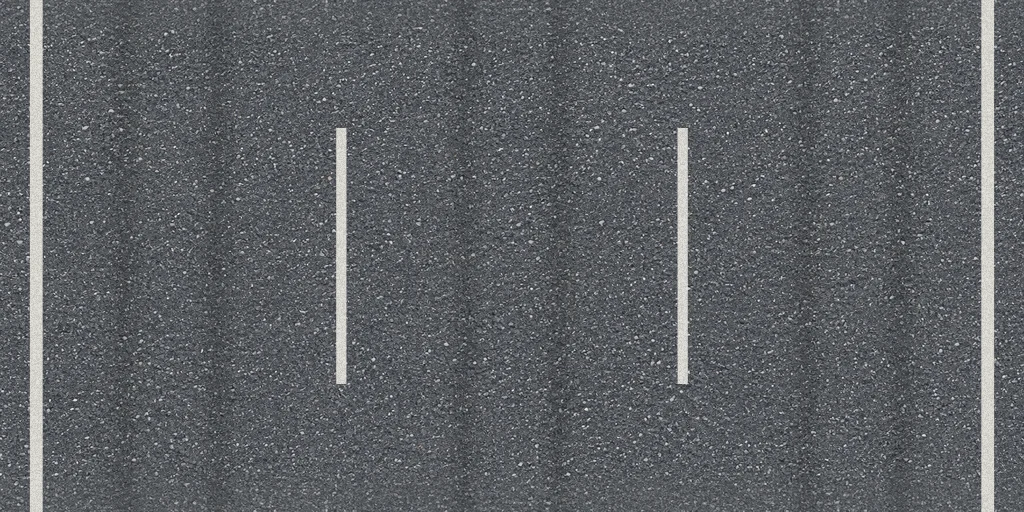
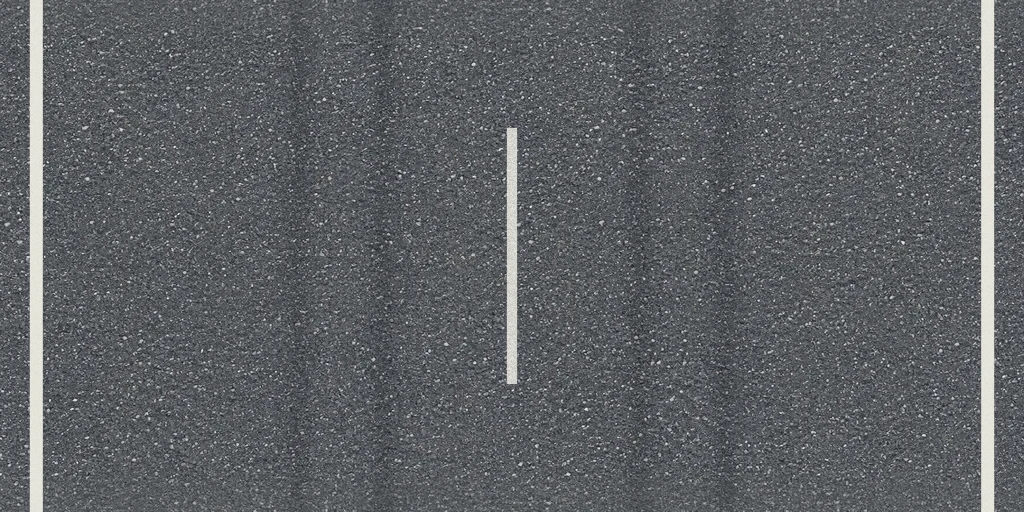
feat: D2a Leitstreifen mittig, Glas-Saeule, blaue flache x2-Wand; Plan: +1-Schilder laufen entgegen (D3)

Changed region(s): [[0.4688, 0.25, 0.5312, 0.75], [0.6562, 0.25, 0.6875, 0.75], [0.3125, 0.25, 0.3438, 0.75]]

diff --git a/src/v3d/szene.ts b/src/v3d/szene.ts
@@ -50,12 +50,27 @@ function platzhalter(scene: THREE.Scene): void {
   gruppe.name = 'platzhalter'
   gruppe.visible = new URLSearchParams(location.search).get('platzhalter') !== '0'
   scene.add(gruppe)
-  box(gruppe, 'vervielfacher', [2 * BUEHNE.MITTE_HALB, BUEHNE.WAND_HOEHE, 0.18], [0, BUEHNE.WAND_HOEHE / 2, -5], '#8e36c0')
-  schild(gruppe, 'vervielfacher-zahl', BUEHNE.WAND_SCHILD_BREITE, 2, 0, 1.2, -4.88, textBild('×2', '#8e36c0'))
+  box(gruppe, 'vervielfacher', [2 * BUEHNE.MITTE_HALB, BUEHNE.WAND_HOEHE, 0.18], [0, BUEHNE.WAND_HOEHE / 2, -5], BUEHNE.WAND_FARBE)
+  schild(gruppe, 'vervielfacher-zahl', BUEHNE.WAND_SCHILD_BREITE, BUEHNE.WAND_SCHILD_HOEHE, 0, BUEHNE.WAND_HOEHE / 2, -4.88, textBild('×2', BUEHNE.WAND_FARBE))
   const plus = textBild('+1', '#168bd2')
   for (let z = 6; z >= -60; z -= 7) schild(gruppe, 'plus-eins', BUEHNE.PLUS_BREITE, BUEHNE.PLUS_HOEHE, BUEHNE.PLUS_X, 1.6, z, plus)
-  box(gruppe, 'saeule', [1.6, 4, 1.6], [BUEHNE.SAEULE_X, 2, -12], '#aaaeb3')
+  const innen = box(gruppe, 'spezialeinheit-platzhalter', [1, 0.6, 1.2], [BUEHNE.SAEULE_X, 0.3, -12], '#244a32')
+  innen.renderOrder = 1
+  const glas = new THREE.Mesh(new THREE.BoxGeometry(1.6, 4, 1.6), new THREE.MeshStandardMaterial({
+    color: '#c8ecf7', transparent: true, opacity: 0.3, depthWrite: false, roughness: 0.1,
+  }))
+  glas.name = 'saeule'; glas.position.set(BUEHNE.SAEULE_X, 2, -12); glas.renderOrder = 2; gruppe.add(glas)
+  const rahmen = new THREE.Group(); rahmen.name = 'saeule-rahmen'; gruppe.add(rahmen)
+  for (const x of [-0.8, 0.8]) for (const z of [-0.8, 0.8])
+    box(rahmen, 'saeule-kante', [0.06, 4, 0.06], [BUEHNE.SAEULE_X + x, 2, -12 + z], '#e5f6fa').renderOrder = 3
+  for (const y of [0, 4]) {
+    for (const z of [-0.8, 0.8])
+      box(rahmen, 'saeule-kante', [1.6, 0.06, 0.06], [BUEHNE.SAEULE_X, y, -12 + z], '#e5f6fa').renderOrder = 3
+    for (const x of [-0.8, 0.8])
+      box(rahmen, 'saeule-kante', [0.06, 0.06, 1.6], [BUEHNE.SAEULE_X + x, y, -12], '#e5f6fa').renderOrder = 3
+  }
   schild(gruppe, 'saeule-zahl', 1.4, 0.7, BUEHNE.SAEULE_X, 3.4, -11.18, textBild('150', '#777c82'))
+  gruppe.children.find(obj => obj.name === 'saeule-zahl')!.renderOrder = 4
   box(gruppe, 'truppe', [6, 0.9, 3], [0, 0.45, 1.5], '#2875bd', 1)
 }
 

diff --git a/tests/v3dBuehne.test.ts b/tests/v3dBuehne.test.ts
@@ -30,7 +30,9 @@ describe('3D-Bühne', () => {
     expect(BUEHNE.PLUS_HOEHE).toBe(1.6)
     expect(BUEHNE.SAEULE_X - 1.6 / 2).toBeGreaterThanOrEqual(BUEHNE.MITTE_HALB)
     expect(BUEHNE.SAEULE_X + 1.6 / 2).toBeLessThanOrEqual(aussen)
-    expect(BUEHNE.WAND_HOEHE).toBe(2.4)
+    expect(BUEHNE.WAND_HOEHE).toBe(1.2)
+    expect(BUEHNE.WAND_FARBE).toBe('#1f6fd6')
+    expect(BUEHNE.WAND_SCHILD_HOEHE).toBe(1)
     expect(BUEHNE.WAND_SCHILD_BREITE).toBeLessThanOrEqual(2 * BUEHNE.MITTE_HALB)
     expect(BUEHNE.KANTE_BREITE).toBe(.3)
     expect(BUEHNE.KANTE_HOEHE).toBe(.25)

diff --git a/src/v3d/balance3d.ts b/src/v3d/balance3d.ts
@@ -55,7 +55,9 @@ export const BUEHNE = {
   PLUS_BREITE: 2.2,
   PLUS_HOEHE: 1.6,
   PLUS_X: -4.7,
-  WAND_HOEHE: 2.4,
+  WAND_HOEHE: 1.2,
+  WAND_FARBE: '#1f6fd6',
+  WAND_SCHILD_HOEHE: 1,
   WAND_SCHILD_BREITE: 4.4,
   SAEULE_X: 4.7,
   KAMERA_SICHTFELD: 22,

diff --git a/scripts/strasse-asphalt.py b/scripts/strasse-asphalt.py
@@ -14,30 +14,52 @@ TARGET = np.array([0x5A, 0x5D, 0x61], dtype=np.float32)
 WHITE = np.array([0xE8, 0xE6, 0xDE], dtype=np.float32)
 
 
-def make_tile(source: Path) -> Image.Image:
+def make_tile(source: Path, replace_markings: bool = False) -> Image.Image:
     image = Image.open(source).convert("RGB").resize((WIDTH, HEIGHT), Image.Resampling.LANCZOS)
     pixels = np.asarray(image, dtype=np.float32).copy()
 
-    # Match the specified base brightness before the markings raise the average.
-    pixels = np.clip(pixels + TARGET - pixels.mean(axis=(0, 1)), 0, 255)
+    if replace_markings:
+        # The original unmarked image was not checked in. Recover the base of the
+        # checked-in tile by removing its old dash and deterministic tyre shading.
+        old_tracks = np.zeros(WIDTH, dtype=np.float32)
+        old_x = np.arange(WIDTH, dtype=np.float32) + 0.5
+        for lane_centre in (-4, 0, 4):
+            for offset in (-0.55, 0.55):
+                centre = (lane_centre + offset + 6) * PIXELS_PER_METRE
+                old_tracks = np.maximum(old_tracks, 0.12 * np.exp(-0.5 * ((old_x - centre) / 9) ** 2))
+        pixels /= (1 - old_tracks)[None, :, None]
+        clean = pixels.copy()
+        for centre_m in (-2, 2):
+            centre = (centre_m + 6) * PIXELS_PER_METRE
+            left, right = int(centre - 9), int(centre + 9)
+            for column in range(left, right + 1):
+                # Nearby untouched asphalt keeps the original grain. Feather the
+                # patch at its sides to avoid a hard vertical join.
+                alpha = min(1.0, (column - left + 1) / 5, (right - column + 1) / 5)
+                pixels[HEIGHT // 4:3 * HEIGHT // 4, column] = (
+                    clean[HEIGHT // 4:3 * HEIGHT // 4, column] * (1 - alpha)
+                    + clean[HEIGHT // 4:3 * HEIGHT // 4, column - 32] * alpha
+                )
+    else:
+        # Match the specified base brightness before the markings raise the average.
+        pixels = np.clip(pixels + TARGET - pixels.mean(axis=(0, 1)), 0, 255)
 
-    # Join only the longitudinal ends. The road edges are clamped, never tiled sideways.
-    original = pixels.copy()
-    for i in range(48):
-        weight = (1 + np.cos(np.pi * i / 48)) / 2
-        common = (original[i] + original[HEIGHT - 1 - i]) / 2
-        pixels[i] = original[i] * (1 - weight) + common * weight
-        pixels[HEIGHT - 1 - i] = original[HEIGHT - 1 - i] * (1 - weight) + common * weight
+        # Join only the longitudinal ends. The road edges are clamped, never tiled sideways.
+        original = pixels.copy()
+        for i in range(48):
+            weight = (1 + np.cos(np.pi * i / 48)) / 2
+            common = (original[i] + original[HEIGHT - 1 - i]) / 2
+            pixels[i] = original[i] * (1 - weight) + common * weight
+            pixels[HEIGHT - 1 - i] = original[HEIGHT - 1 - i] * (1 - weight) + common * weight
 
     x = np.arange(WIDTH, dtype=np.float32) + 0.5
     y = np.arange(HEIGHT, dtype=np.float32) + 0.5
 
-    # Two broad, low-opacity tyre traces in each of the three four-metre lanes.
+    # Two tyre traces in each half of the central fighting lane; side lanes stay clear.
     tracks = np.zeros(WIDTH, dtype=np.float32)
-    for lane_centre in (-4, 0, 4):
-        for offset in (-0.55, 0.55):
-            centre = (lane_centre + offset + 6) * PIXELS_PER_METRE
-            tracks = np.maximum(tracks, 0.12 * np.exp(-0.5 * ((x - centre) / 9) ** 2))
+    for centre_m in (-2.5, -1.5, 1.5, 2.5):
+        centre = (centre_m + 6) * PIXELS_PER_METRE
+        tracks = np.maximum(tracks, 0.12 * np.exp(-0.5 * ((x - centre) / 9) ** 2))
     pixels *= (1 - tracks)[None, :, None]
 
     rng = np.random.default_rng(31729)
@@ -58,20 +80,20 @@ def make_tile(source: Path) -> Image.Image:
     paint_line(-6 + 0.35 + 0.075, 0.15, False)
     paint_line(6 - 0.35 - 0.075, 0.15, False)
     # One 3 m dash plus 3 m gap per six-metre tile.
-    paint_line(-2, 0.12, True)
-    paint_line(2, 0.12, True)
+    paint_line(0, 0.12, True)
     return Image.fromarray(np.rint(np.clip(pixels, 0, 255)).astype(np.uint8))
 
 
 def main() -> None:
     parser = argparse.ArgumentParser(description=__doc__)
     parser.add_argument("source", type=Path, help="image-generated unmarked asphalt")
+    parser.add_argument("--replace-markings", action="store_true", help="use the checked-in marked tile as the base")
     parser.add_argument("--output", type=Path, default=Path("src/v3d/bilder/v3d-strasse.webp"))
     parser.add_argument("--preview", type=Path, default=Path("/private/tmp/run-gun-d1-kacheln/strasse-asphalt-2x2.png"))
     args = parser.parse_args()
     if not features.check("webp"):
         parser.error("PIL has no WebP encoder")
-    tile = make_tile(args.source)
+    tile = make_tile(args.source, args.replace_markings)
     args.output.parent.mkdir(parents=True, exist_ok=True)
     tile.save(args.output, "WEBP", quality=88)
     preview = Image.new("RGB", (WIDTH * 2, HEIGHT * 2))

diff --git a/docs/active-task.md b/docs/active-task.md
@@ -182,6 +182,9 @@ Soldaten (D2b), Bosse (D2c), Bewegung nach vorn, Wellen, Front, Treffer, Umfalle
 
 ## Implementation Summary
 
+- Nacharbeit 4: Asphalt mit einer gestrichelten Leitlinie bei x = 0 und vier Reifenspuren nur im mittleren Kampffeld neu erzeugt; alter Grundbelag und Randlinien bleiben. Die alten Leitlinien bei x = ±2 wurden aus der eingecheckten Kachel entfernt. Kontrollbild: `tmp/strasse-asphalt-2x2.png`.
+- Die rechte Säule hat hellblau-weißes Glas (30 % Deckkraft, Rauheit 0,1), zwölf helle Rahmenkanten und einen dunkelgrünen Innenplatzhalter 1,0 × 0,6 × 1,2 m. Die ×2-Wand ist blau (`#1f6fd6`), 1,2 m hoch; ihr Schild misst 4,4 × 1 m. `tests/v3dBuehne.test.ts` erwartet die neuen Wandwerte.
+- Nacharbeit-4-Prüfung: gezielt 1 Datei/5 Tests, volle Suite 57 Dateien/511 Tests, `npx tsc --noEmit`, `npm run build`, `git diff --check` und Offline-Isolationstest grün. Sechs 3D-Dateien (1.242.906 Byte) sind im Precache; Hauptbündel 1.467.937 Byte (Grenze 1.475.425). Terminal.app konnte hier nicht gestartet werden (`Unable to find application named 'Terminal'`); die Tests liefen deshalb direkt im Projekt. Browser-Sichtprüfung, WebGL-Zähler beim Zweitstart und iPhone-Leistungsmessung bleiben Claude und Thomas vorbehalten; für diese Nacharbeit wurde kein Gerätewert gemessen.
 - Nacharbeit 3: Straße in drei Streifen mit zwei 0,3 × 0,25 m Betonkanten von z = −5,5 bis −220 geteilt. Die 400 Bühnen-Zombies stehen nur in der Mitte (zehn Spalten, x = −3,05 bis 3,05); die Vollast zeigt 600 Zombies ab z = −15, mit berechnetem Schwarz-Messpunkt in der Tiefe der Masse. +1-Schilder, ×2-Wand und Säule liegen vollständig in ihrem jeweiligen Streifen; Truppe und Soldaten-Aufstellung bleiben vor der Wand.
 - Nacharbeit-3-Prüfung: gezielte Tests 2 Dateien/9 Tests, volle Suite 57 Dateien/511 Tests, `npx tsc --noEmit`, `npm run build`, `git diff --check` und der Offline-Isolationstest grün. Hauptbündel 1.467.937 Byte (Grenze 1.475.425), GLB im Precache. Die Tests liefen direkt im Projekt, weil die vorgeschriebene Terminal-App in dieser Umgebung nicht startbar ist (`kLSNoExecutableErr`). Browser-Sichtprüfung, WebGL-Zähler beim Zweitstart und iPhone-Messung der 600er-Vollast bleiben Claude und Thomas vorbehalten; kein Gerätewert für diese Nacharbeit behauptet.
 - Nacharbeit 2: Zombie-Höhe 1,95 m; Aufstellung mit 0,63 m Spaltenabstand, 0,83 m Reihenabstand, ±0,12 m Versatz und 16 Spalten aus der Straßenbreite. Bühnenblock 400, Mess-Vollast 800 Zombies; Schwarz-Messpunkt aus der tatsächlichen Tiefe der Vollast berechnet. +1-Schilder 2,4 × 1,6 m links an der Mauer in 7-m-Abständen, ×2-Wand 2,4 m hoch und Schrift-Schild 4,4 × 2 m. Nahaufnahme für die größeren Figuren neu ausgerichtet.
@@ -272,3 +275,21 @@ als Konstanten in `BUEHNE`, Kommentar zur Streifen-Aufteilung dazu):
 - Tests: Aufstellung liegt vollständig in `[ZOMBIE_X_MIN, ZOMBIE_X_MAX]`; Schilder,
   Säule und Wand liegen je vollständig in ihrem Streifen (reine Rechnung aus den
   Konstanten). Status am Ende `IMPL_DONE`, Nachtrag im Implementation Summary.
+
+## Nacharbeit 4 (Thomas 2026-09-29) — Leitstreifen, Glas-Säule, blaue Wand
+
+- **Leitstreifen:** nur noch **eine** gestrichelte Linie in der Mitte des Kampffelds
+  (`x = 0`), die beiden Linien bei `x = ±2` entfallen. Randlinien bleiben.
+  `scripts/strasse-asphalt.py` anpassen und `v3d-strasse.webp` neu erzeugen (gleicher
+  Grundbelag, gleiche Maße, Reifenspuren an die neue Aufteilung anpassen: je zwei in den
+  beiden Hälften der Mitte, keine in den Seitenstreifen).
+- **Säule rechts durchsichtig:** Glas-Optik — `MeshStandardMaterial` hellblau-weiß,
+  `transparent: true`, `opacity 0.3`, `depthWrite: false`, Rauheit 0,1, dazu ein heller
+  Rahmen (die 12 Kanten als dünne Kästen 0,06 m oder `EdgesGeometry` + `LineSegments`).
+  **Innen** ein Platzhalter für die Spezialeinheit: dunkelgrüner Kasten 1,0 × 0,6 × 1,2 m
+  auf dem Säulenboden (wird in D5 durch das Fahrzeug ersetzt), sichtbar durch das Glas.
+  Zahl "150" bleibt oben. Zeichenreihenfolge so, dass der Inhalt durchs Glas sichtbar ist
+  (Inhalt undurchsichtig zuerst, Glas danach; `renderOrder`).
+- **×2-Wand:** Farbe **blau** (`#1f6fd6`, Schrift-Schild passend blau mit weißer
+  Schrift), **halb so hoch: 1,2 m** (Mitte `y = 0.6`), Schrift-Schild 4,4 × 1 m.
+- Tests weiter grün, Status am Ende `IMPL_DONE`, Nachtrag im Implementation Summary.

diff --git a/docs/plan-v7.md b/docs/plan-v7.md
@@ -250,7 +250,7 @@ Schrittwippen, und Thomas entscheidet.
 einzeln gemessen), dann **Worst Case:** 1200 Zombies + 120 Soldaten + 2 Bosse + Wasser.
 Nachweise: Budget, Dauertest 3 Minuten. Danach `public/probe-3d/` aus dem Deploy nehmen.
 
-**D3 — Steuerung, Aussenden, linker Rand.** Steuerung absolut zum Finger (Truppe folgt
+**D3 — Steuerung, Aussenden, linker Rand.** **+1-Schilder (Thomas 2026-09-29):** Die Schilder laufen der Truppe im linken Streifen entgegen, langsam, solange die Truppe nicht dort ist, und **schneller, sobald die Truppe hinsteuert**; jedes Schild, das die Truppe erreicht, ist ein +1 (Tempo so, dass die Rate der Spielrechnung entspricht: 2/s bei 7 m Abstand → 14 m/s). **Säulen** sind aus Glas, die Spezialeinheit ist darin sichtbar (D5a). Steuerung absolut zum Finger (Truppe folgt
 der Fingerposition, geglättet, höchstens 8 m/s, Grenzen = Bahnrand minus halbe
 Truppenbreite), Zurück-Knopf mit eigener Tippfläche außerhalb der Steuerfläche,
 Aussenden nach `r`, Vervielfacher-Wand, +1-Schilder — alles aus dem Rechenkern R.
